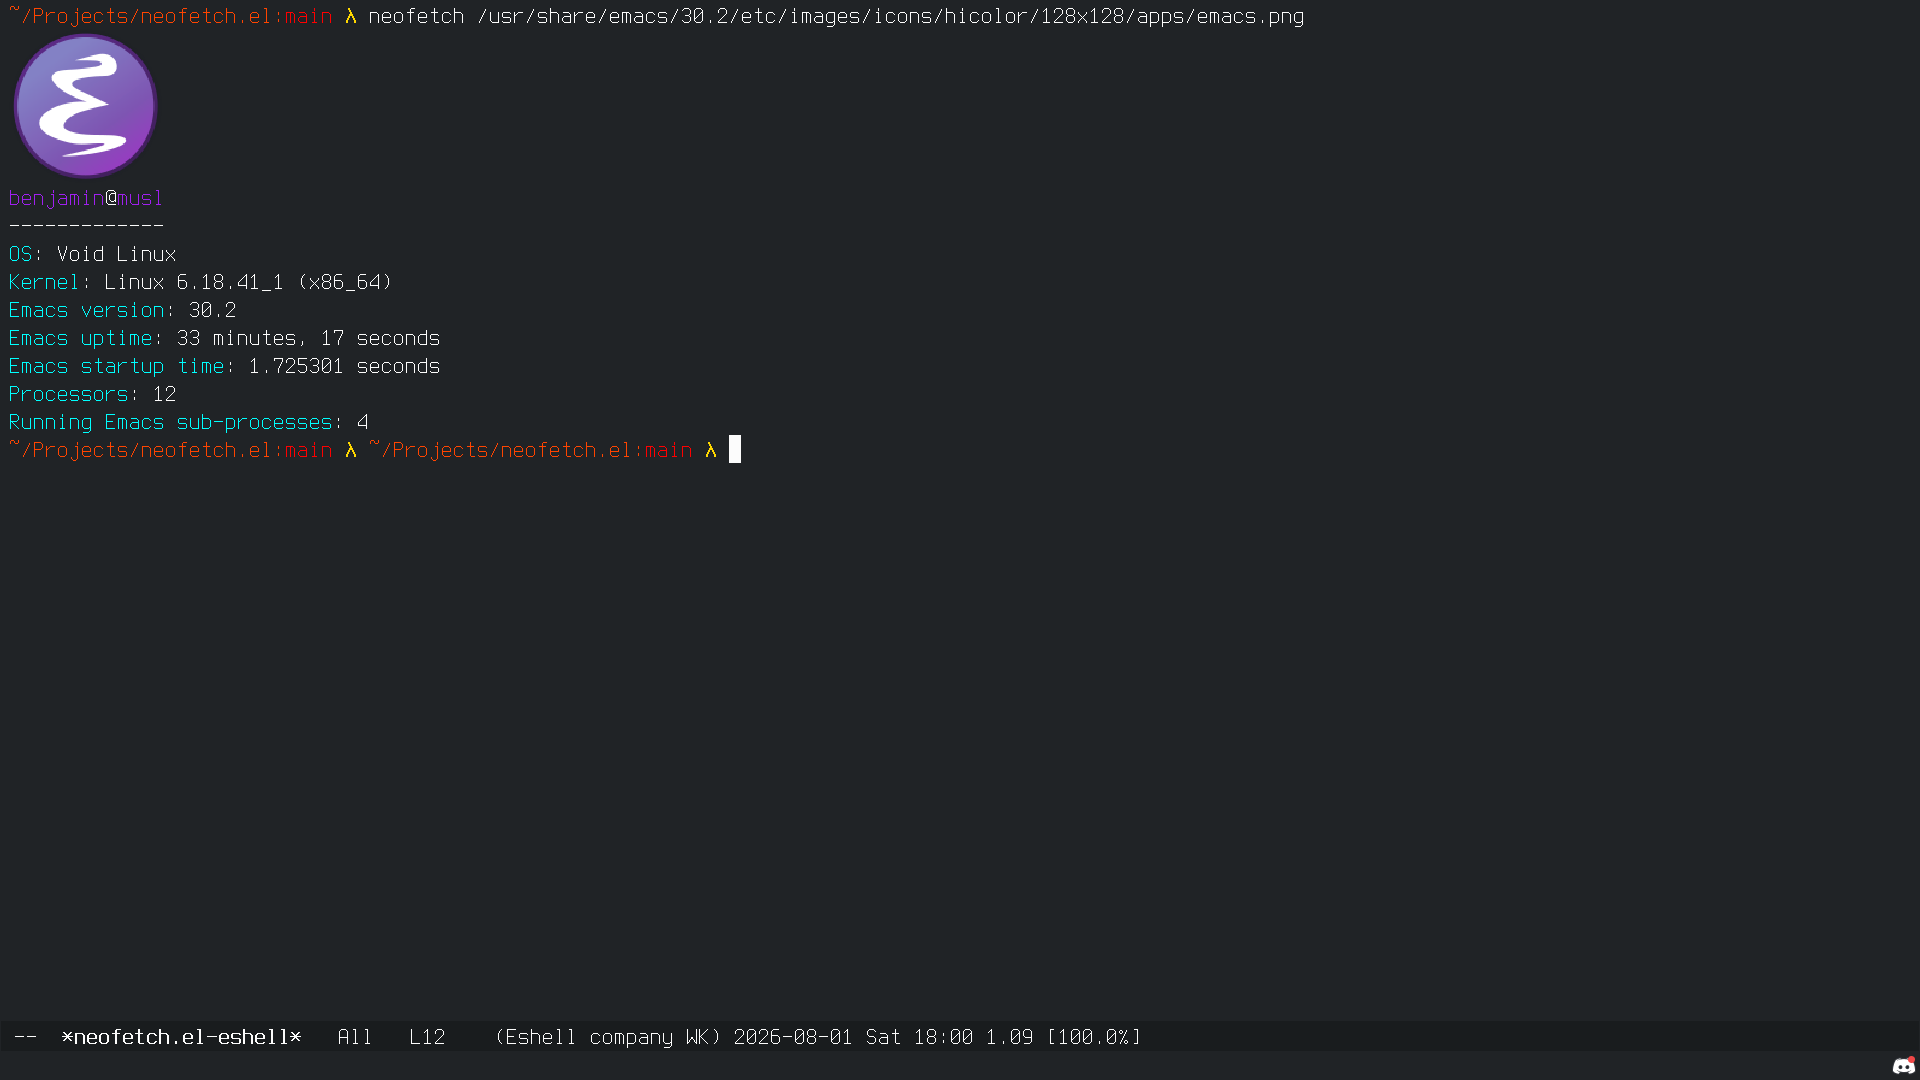
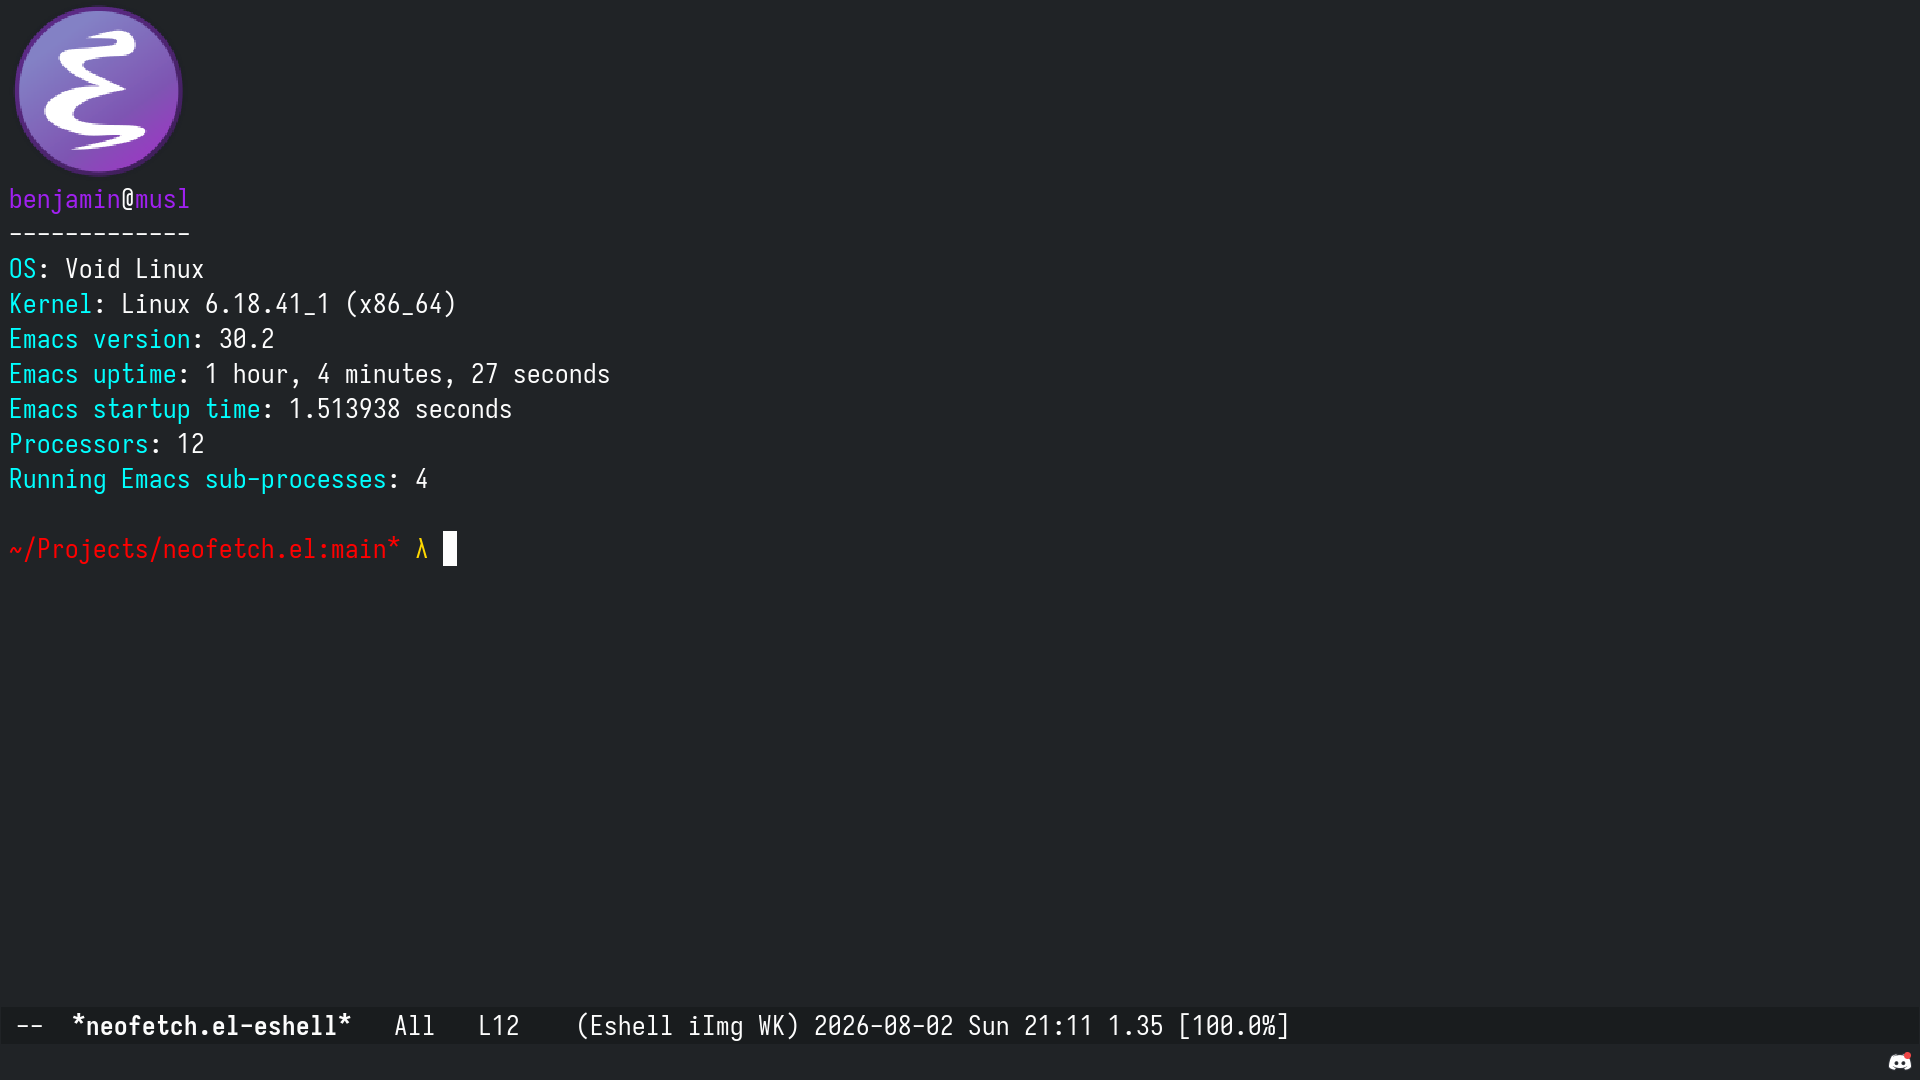
update

diff --git a/README.md b/README.md
@@ -21,6 +21,10 @@ Packaging on Melpa is work in progress
 
 Run it in Eshell. neofetch without arguments will not print a logo. Run neofetch with the path to an image to get a logo
 
+## Notes
+
+neofetch will enable iimage-mode in your eshell buffer
+
 ## Screenshot
 
 ![neofetch.el](./pic.png)
